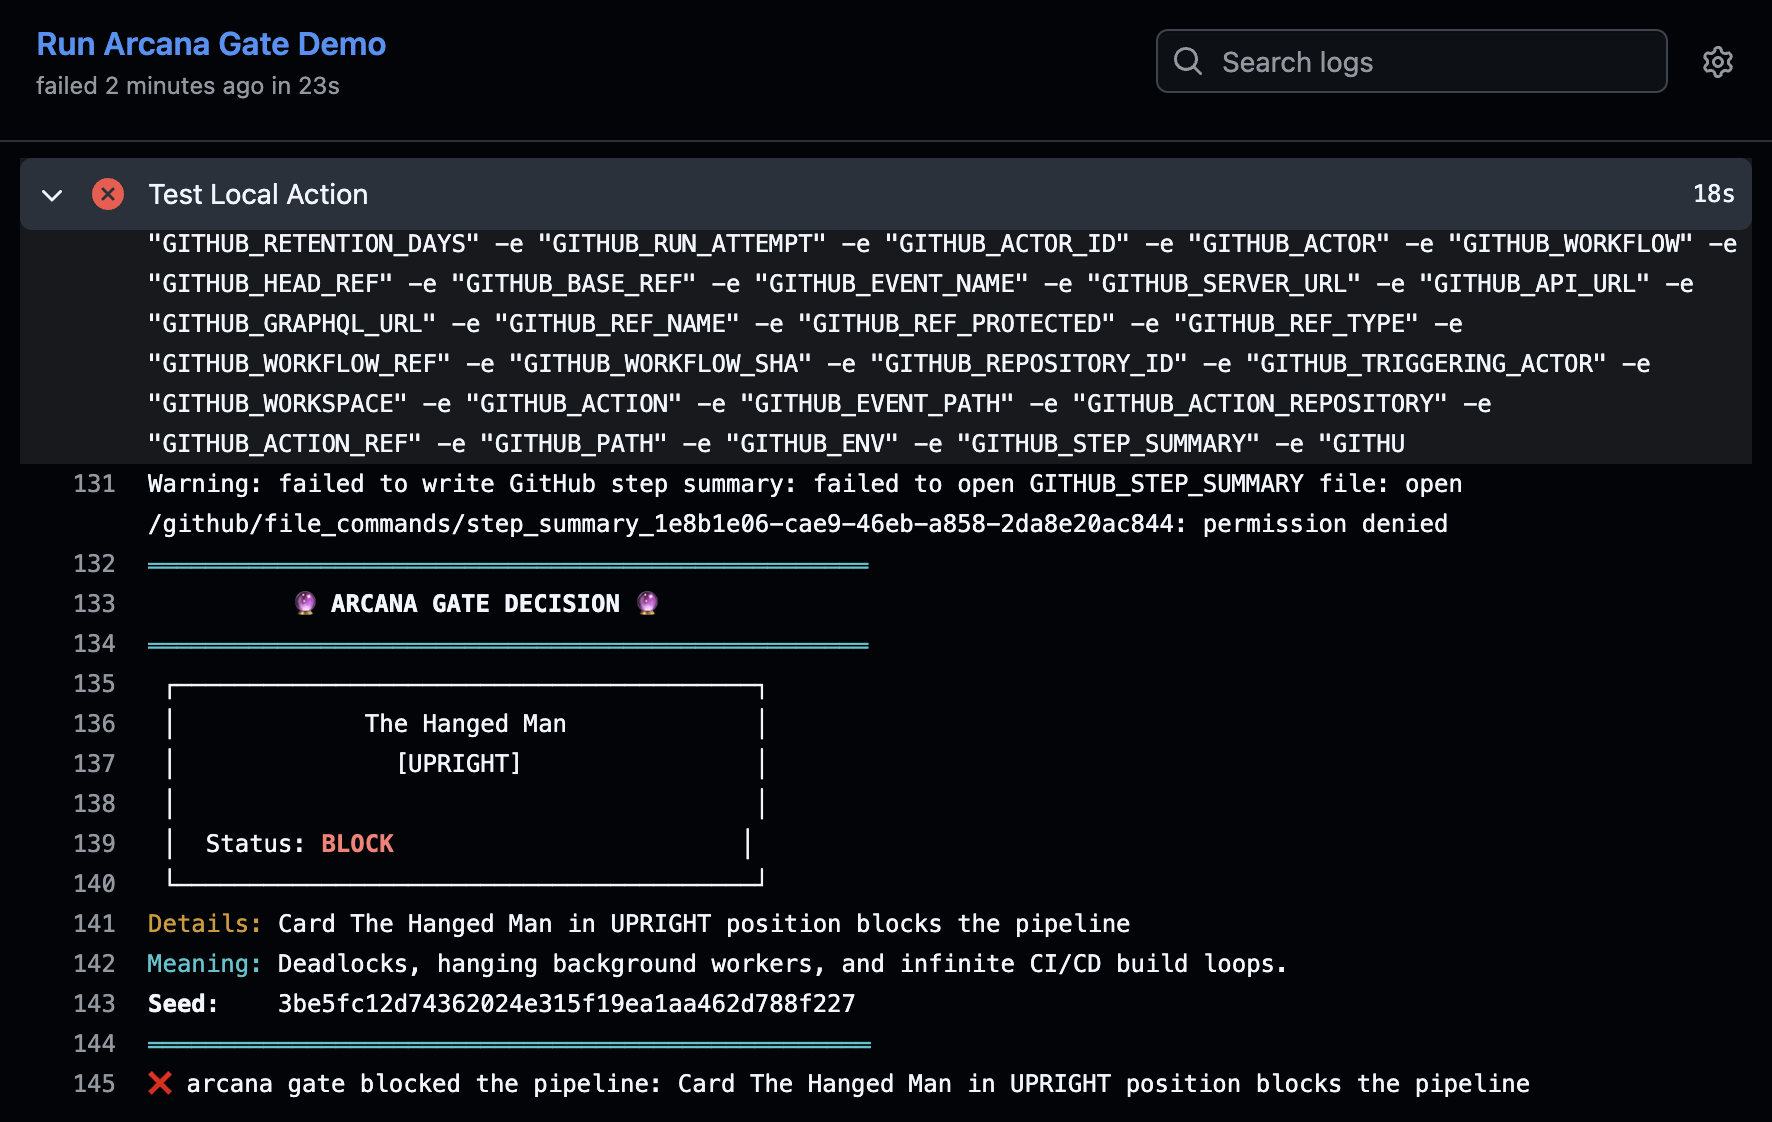
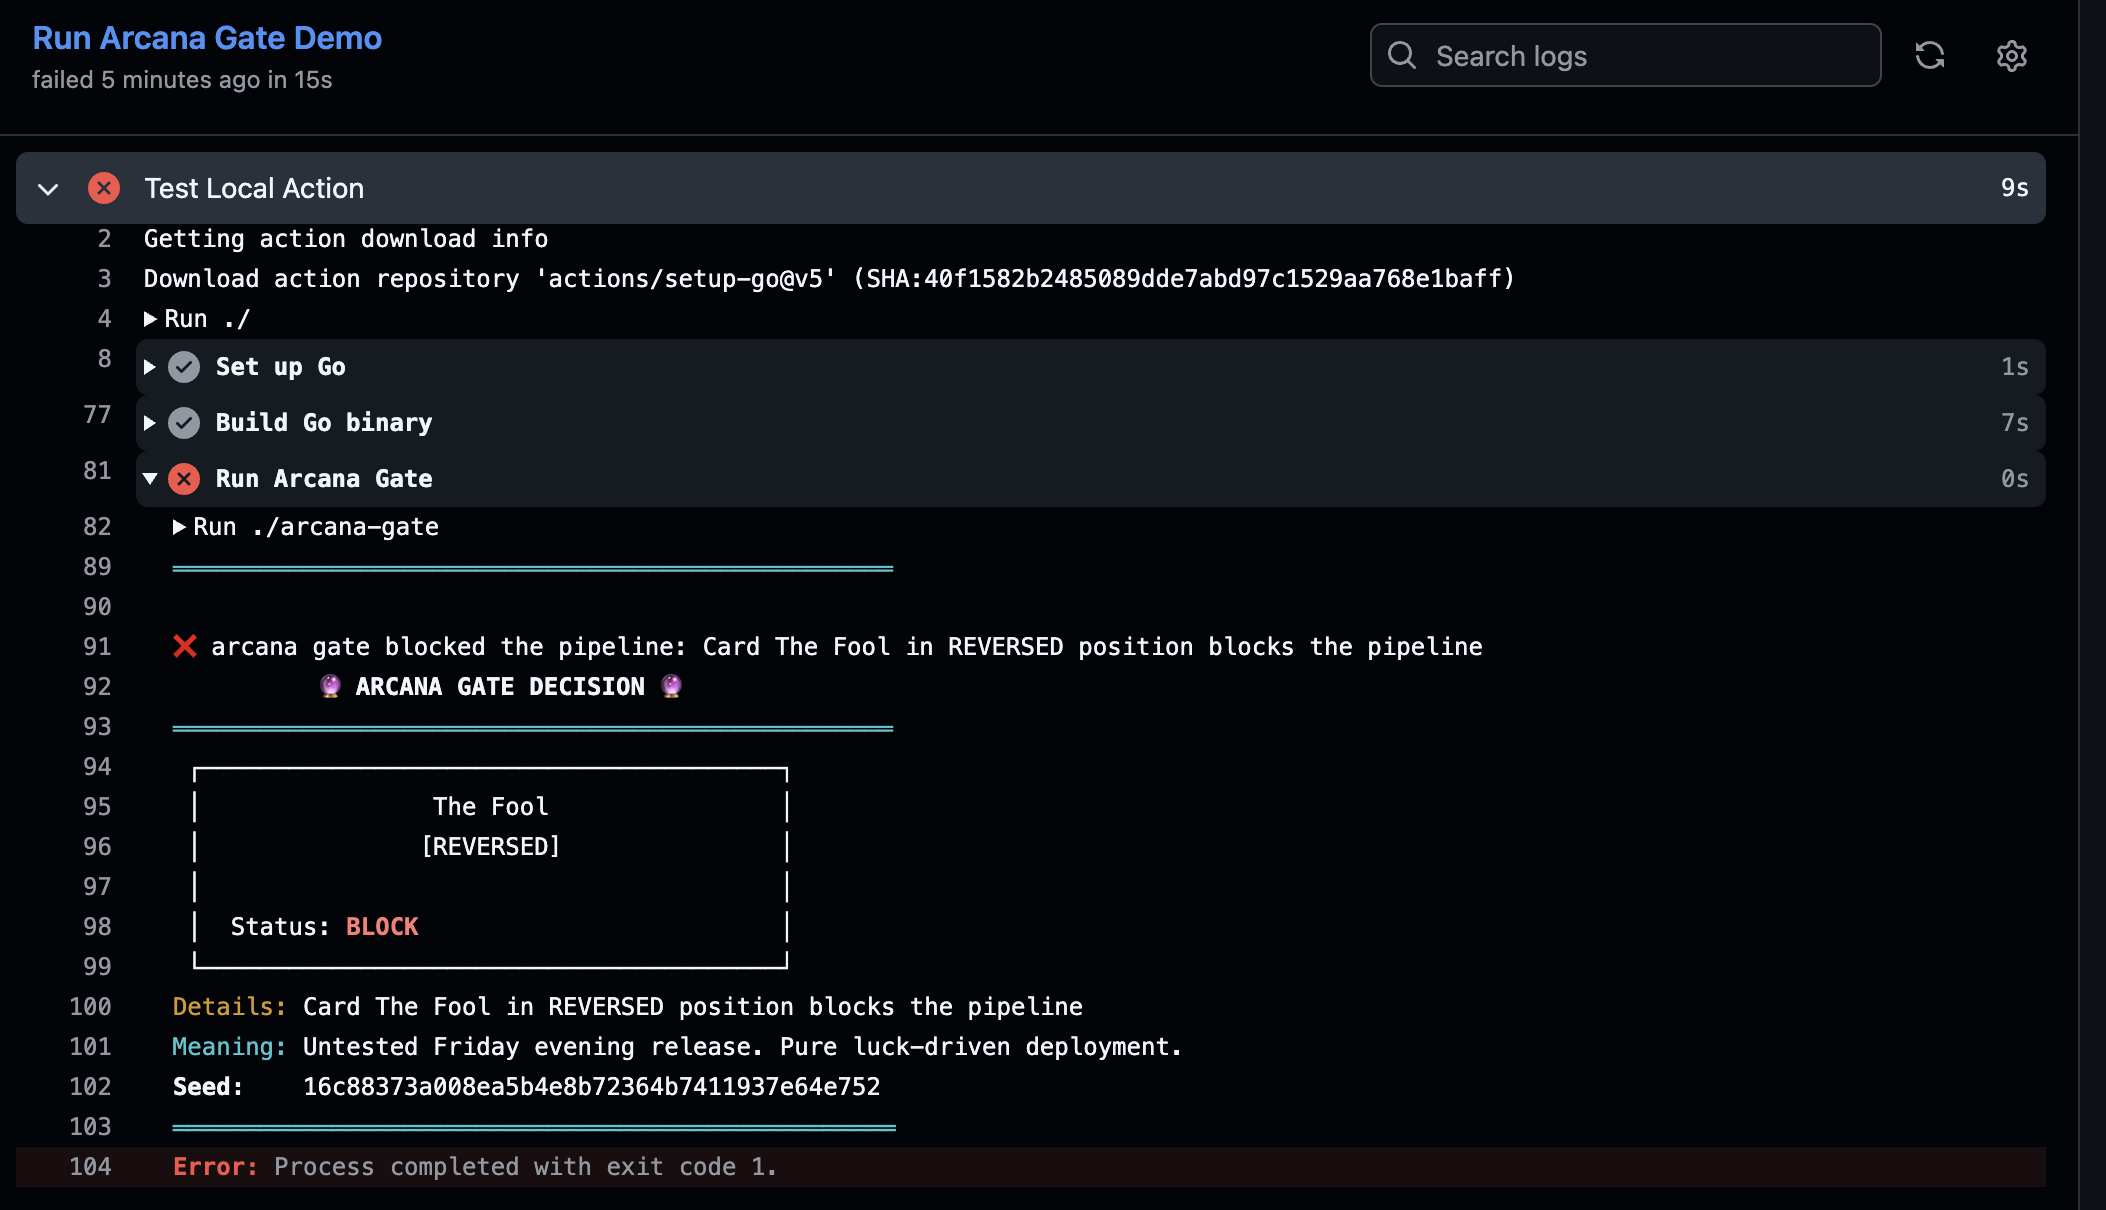
docs: modified README, add assets

diff --git a/README.md b/README.md
@@ -95,6 +95,12 @@ echo $?
 | **The World** | ✅ PASS | ✅ PASS | **Microservice Synergy.** Green telemetry across all Kubernetes pods and service meshes. |
 | **The Fool** | ✅ PASS | ❌ BLOCK | **YOLO Deploy.** Upright represents bold innovation; Reversed warns against untested Friday evening releases. |
 
+## 📊 Markdown Summary Report
+
+<p align="center">
+  <img src="assets/demo_summary.png" alt="Arcana Gate Step Summary Preview" width="80%"/>
+</p>
+
 ## 🛠 Project Layout & Architecture
 Designed in accordance with **Standard Go Project Layout** and Clean Architecture principles:
 ```text
